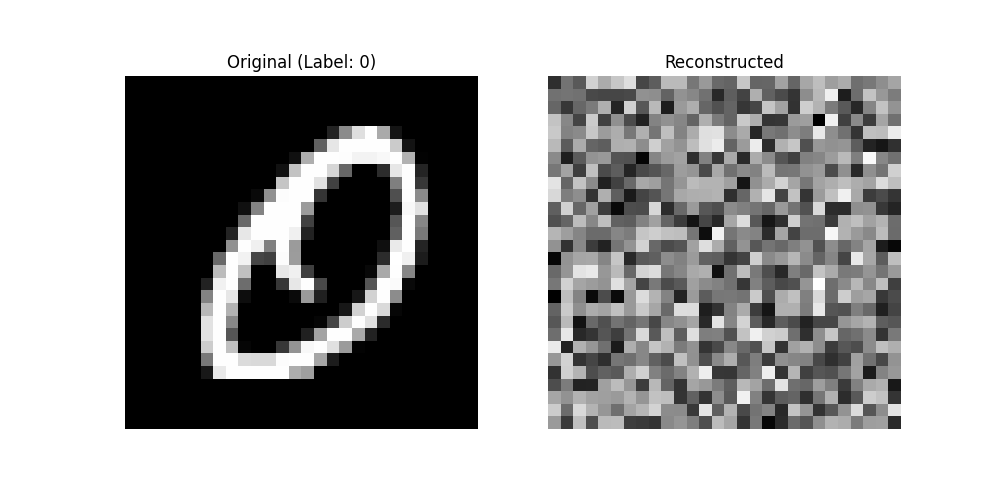
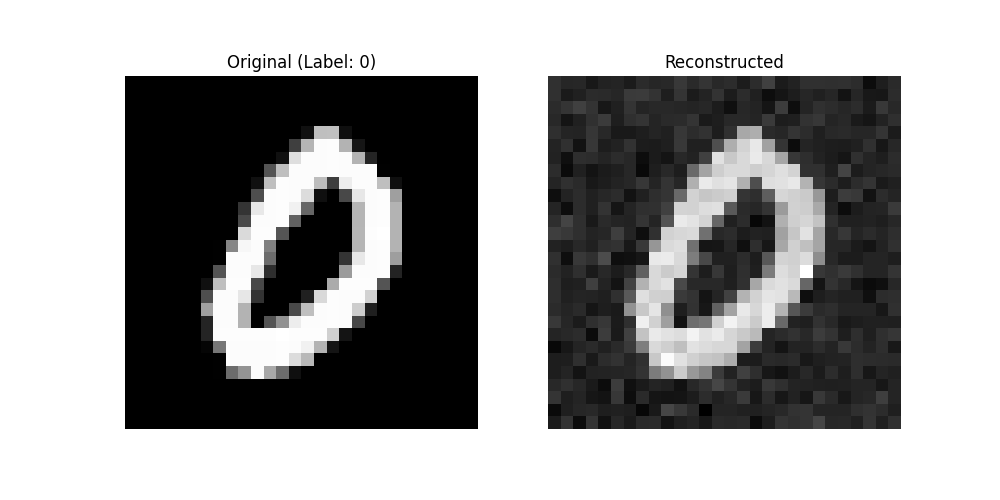
some good results

Changed region(s): [[0.527, 0.15, 0.899, 0.87], [0.186, 0.24, 0.434, 0.78]]

diff --git a/server.py b/server.py
@@ -67,52 +67,62 @@ class SecureFedAvg(FedAvg):
         return ndarrays_to_parameters(params)
 
     def aggregate_fit(self, server_round, results, failures):
-        aggregated, metrics = super().aggregate_fit(server_round, results, failures)
         
-        if not results or not aggregated:
-            return aggregated, metrics
-
         attack_params = self.attack_config.get("gradient_inversion", {})
-        if not attack_params.get("enable", False):
-            return aggregated, metrics
-
+        is_attack_enabled = attack_params.get("enable", False)
         target_client_id = attack_params.get("target_client", 1)
-        for _, fit_res in results:
-            if fit_res.metrics.get("logical_client_id") == target_client_id:
-                data_file = f"client_data/client_{target_client_id}_data.pkl"
+
+        # --- DLG Attack Logic ---
+        if is_attack_enabled:
+            target_fit_res = None
+            for client, fit_res in results:
+                # Find the target client's result
+                if fit_res.metrics.get("logical_client_id") == target_client_id:
+                    print(f"\n[DLG] Intercepted gradients from target client {target_client_id}")
+                    target_fit_res = fit_res
+                    break
+            
+            if target_fit_res:
                 try:
-                    if os.path.exists(data_file):
-                        with open(data_file, 'rb') as f:
-                            client_data = pickle.load(f)
-                        
-                        initial_params = client_data["initial_params"]
-                        original_image = client_data["data_batch"]
-                        original_label = client_data["target_batch"]
-                        
-                        gradients = self._compute_gradients(
-                            initial_params=initial_params,
-                            updated_params=fit_res.parameters,
-                            lr=attack_params["client_lr"]
+                    # The parameters are now raw gradients
+                    gradients_ndarrays = parameters_to_ndarrays(target_fit_res.parameters)
+                    
+                    data_file = f"client_data/client_{target_client_id}_data.pkl"
+                    with open(data_file, 'rb') as f:
+                        client_data = pickle.load(f)
+                    
+                    reconstructed = self._reconstruct_data(gradients_ndarrays, attack_params)
+                    
+                    if reconstructed is not None:
+                        self._save_reconstruction(
+                            reconstructed,
+                            client_id=target_client_id,
+                            round_num=server_round,
+                            original_data=client_data["data_batch"],
+                            original_label=client_data["target_batch"]
                         )
-                        
-                        reconstructed = self._reconstruct_data(gradients, attack_params)
-                        
-                        if reconstructed is not None:
-                            self._save_reconstruction(
-                                reconstructed,
-                                client_id=target_client_id,
-                                round_num=server_round,
-                                original_data=original_image,
-                                original_label=original_label
-                            )
-                        os.remove(data_file)
+                    os.remove(data_file)
                 except Exception as e:
                     print(f"[DLG Failed] Error on client {target_client_id}: {str(e)}")
-                break
 
+        # --- Standard Aggregation for honest clients ---
+        honest_clients_results = [
+            (client, fit_res) for client, fit_res in results 
+            if not is_attack_enabled or fit_res.metrics.get("logical_client_id") != target_client_id
+        ]
+        
+        if not honest_clients_results:
+             # If only the target client responded, there's nothing to aggregate.
+             # Return the current server model without changes.
+            return self.current_parameters, {}
+
+        # Proceed with standard FedAvg on the honest clients
+        aggregated, metrics = super().aggregate_fit(server_round, honest_clients_results, failures)
+        
         return aggregated, metrics
 
     def _compute_gradients(self, initial_params: NDArrays, updated_params: Parameters, lr: float) -> List[np.ndarray]:
+        # This method is no longer needed for the DLG attack but might be useful for other attacks.
         updated_weights = parameters_to_ndarrays(updated_params)
         return [(init - upd) / lr for init, upd in zip(initial_params, updated_weights)]
 
@@ -120,20 +130,14 @@ class SecureFedAvg(FedAvg):
         attack_type = attack_params.get("type", "dlg")
         
         if attack_type == "dlg":
+            # The gradients list is already what we need
             return dlg_attack(
-                gradients=[gradients[0], gradients[1]],
+                gradients=gradients,
                 input_shape=(1, 1, 28, 28),
-                output_shape=(1, 10),
                 lr=attack_params.get("attack_lr", 0.1),
                 iterations=attack_params.get("iterations", 1000)
             )
-        elif attack_type == "mdlg":
-            return mdlg_attack(
-                gradients=[gradients[0]],
-                input_shape=(1, 1, 28, 28),
-                lr=attack_params.get("attack_lr", 0.01),
-                iterations=attack_params.get("iterations", 500)
-            )
+        # ... (mDLG and other attacks remain the same)
         else:
             print(f"Unknown attack type: {attack_type}")
             return None

diff --git a/attacks/gradient_inversion.py b/attacks/gradient_inversion.py
@@ -3,48 +3,68 @@ import torch
 import numpy as np
 from typing import Tuple
 
+# In attacks/gradient_inversion.py
+
 def dlg_attack(
-    gradients: list,            # [grad_W, grad_b] from the victim
-    input_shape: Tuple[int],    # (1,1,28,28)
-    output_shape: Tuple[int],   # (1,10)
+    gradients: list,            # [grad_fc1_w, grad_fc1_b, grad_fc2_w, grad_fc2_b]
+    input_shape: Tuple[int],    # (1, 1, 28, 28)
     lr: float = 0.1,
     iterations: int = 1000,
 ) -> np.ndarray:
-    # === target gradients we want to reproduce ===============================
-    tgt_grad_W = torch.from_numpy(gradients[0]).float()      # (64, 784)
-    tgt_grad_b = torch.from_numpy(gradients[1]).float()      # (64,)
+    
+    # --- We expect gradients from ALL layers now ---
+    # gradients[0] = fc1.weight, gradients[1] = fc1.bias
+    # gradients[2] = fc2.weight, gradients[3] = fc2.bias
+    original_dy_dx = [torch.from_numpy(g).float() for g in gradients]
 
-    out_dim, in_dim = tgt_grad_W.shape
+    # --- Dummy data and model parameters ---
+    dummy_data = torch.randn(input_shape, requires_grad=True)
+    
+    # The BIG CHANGE: Instead of a dummy label, we create dummy logits
+    # that we can optimize. This lets the attack find the correct label.
+    dummy_logits = torch.randn((1, 10), requires_grad=True) # MNIST has 10 classes
 
-    # === dummy model parameters (just for gradient calculation) ==============
-    W = torch.randn(out_dim, in_dim, requires_grad=True)     # (64, 784)
-    b = torch.randn(out_dim,              requires_grad=True)  # (64,)
+    # Use a dummy model that matches the client's SimpleNN architecture
+    dummy_model = torch.nn.Sequential(
+        torch.nn.Linear(784, 64),
+        torch.nn.ReLU(),
+        torch.nn.Linear(64, 10)
+    )
+    
+    # We only need the parameters for gradient calculation, so we can just use the
+    # list of gradients we already have to get their shapes.
+    dummy_params = list(dummy_model.parameters())
 
-    # === what we are trying to recover =======================================
-    dummy_data  = torch.randn(input_shape, requires_grad=True)
-    dummy_label = torch.randint(0, output_shape[1], (1,))    # class index
+    # --- Optimizer ---
+    # We now optimize BOTH the dummy_data and the dummy_logits
+    optimizer = torch.optim.Adam([dummy_data, dummy_logits], lr=lr)
 
-    opt = torch.optim.Adam([dummy_data], lr=lr)
+    for it in range(iterations):
+        optimizer.zero_grad()
 
-    for _ in range(iterations):
-        opt.zero_grad()
+        # Reshape dummy data for the linear layer
+        dummy_data_flat = dummy_data.view(1, -1)
+        
+        # Forward pass through our dummy model to get gradients
+        # We use our learnable dummy_logits as the output
+        dummy_pred = dummy_model(dummy_data_flat)
+        loss_cls = torch.nn.functional.cross_entropy(dummy_pred, dummy_logits.softmax(dim=-1))
+        
+        # Calculate gradients w.r.t. model parameters
+        dy_dx = torch.autograd.grad(loss_cls, dummy_params, create_graph=True)
 
-        # forward
-        logits = torch.matmul(dummy_data.view(1, -1), W.t()) + b
-        loss_cls = torch.nn.functional.cross_entropy(logits, dummy_label)
-
-        # gradients w.r.t. *model parameters*
-        grad_W, grad_b = torch.autograd.grad(
-            loss_cls, [W, b], create_graph=True
-        )
-
-        # gradient‑matching loss
-        grad_loss = torch.nn.functional.mse_loss(grad_W, tgt_grad_W) + \
-                    torch.nn.functional.mse_loss(grad_b, tgt_grad_b)
-
+        # --- The Gradient Matching Loss ---
+        grad_loss = 0
+        for gx, gy in zip(original_dy_dx, dy_dx):
+            grad_loss += ((gx - gy) ** 2).sum()
+        
         grad_loss.backward()
-        opt.step()
+        optimizer.step()
 
+        if it % 500 == 0:
+            print(f"Iteration {it}/{iterations}, Grad Loss: {grad_loss.item():.4f}")
+
+    # Return the optimized data
     return dummy_data.detach().numpy()
 
 def mdlg_attack(gradients: list, input_shape: Tuple[int],

diff --git a/client.py b/client.py
@@ -116,39 +116,42 @@ class FlowerClient(fl.client.NumPyClient):
     def fit(self, parameters, config):
         self.set_parameters(parameters)
 
-        # --- START of CHANGE: Different logic for target vs. honest clients ---
         gradient_inversion_params = self.attack_config.get("gradient_inversion", {})
         is_dlg_target = (gradient_inversion_params.get("enable", False) and
                          self.client_id_numeric == gradient_inversion_params.get("target_client"))
 
         if is_dlg_target:
-            # DLG TARGET CLIENT: Train on ONE batch to create a leaky gradient.
-            print(f"Client {self.client_id_numeric}: Acting as DLG target. Training on one batch.")
+            print(f"Client {self.client_id_numeric}: Acting as DLG target. Sending raw gradients.")
             
-            initial_params = get_parameters(self.model)
-            
-            # Use a batch size of 1 for the attack, regardless of config
             single_batch_loader = DataLoader(self.train_data_subset, batch_size=1, shuffle=True)
-            data_batch = next(iter(single_batch_loader))
+            data, target = next(iter(single_batch_loader))
 
-            # Save the data needed for the server-side attack
+            self.model.train()
+            criterion = torch.nn.CrossEntropyLoss()
+            
+            output = self.model(data)
+            loss = criterion(output, target)
+            
+            gradients = torch.autograd.grad(loss, self.model.parameters())
+            gradients_as_numpy = [grad.cpu().numpy() for grad in gradients]
+
+            # Create the metrics dictionary AND add the client ID
+            metrics = {
+                "loss": loss.item(), 
+                "accuracy": 0.0,
+                "phase": "train",
+                "logical_client_id": self.client_id_numeric # <-- ADDED HERE
+            }
+            
             os.makedirs("client_data", exist_ok=True)
             data_to_save = {
-                'initial_params': initial_params,
-                'data_batch': data_batch[0].cpu().numpy(),
-                'target_batch': data_batch[1].cpu().numpy()
+                'data_batch': data.cpu().numpy(),
+                'target_batch': target.cpu().numpy()
             }
             with open(f"client_data/client_{self.client_id_numeric}_data.pkl", 'wb') as f:
                 pickle.dump(data_to_save, f)
 
-            # Perform training on only that single batch
-            loss, correct, total = train_single_batch(
-                self.model, data_batch, self.config["clients"]["learning_rate"]
-            )
-            
-            num_examples = total
-            accuracy = correct / total
-            metrics = {"loss": float(loss), "accuracy": float(accuracy)}
+            return gradients_as_numpy, 1, metrics
 
         else:
             # HONEST CLIENT: Perform full local training.
@@ -159,14 +162,17 @@ class FlowerClient(fl.client.NumPyClient):
                 lr=self.config["clients"]["learning_rate"]
             )
             num_examples = len(self.train_loader.dataset)
-            metrics = {"loss": float(loss), "accuracy": float(accuracy)}
 
-        # Add common metrics
-        metrics["phase"] = "train"
-        metrics["logical_client_id"] = self.client_id_numeric
-        
-        return self.get_parameters({}), num_examples, metrics
-        # --- END of CHANGE ---
+            # Create the metrics dictionary AND add the client ID
+            metrics = {
+                "loss": float(loss), 
+                "accuracy": float(accuracy),
+                "phase": "train",
+                "logical_client_id": self.client_id_numeric # <-- ADDED HERE
+            }
+            
+            return self.get_parameters({}), num_examples, metrics
+
 
     def evaluate(self, parameters, config):
         self.set_parameters(parameters)
